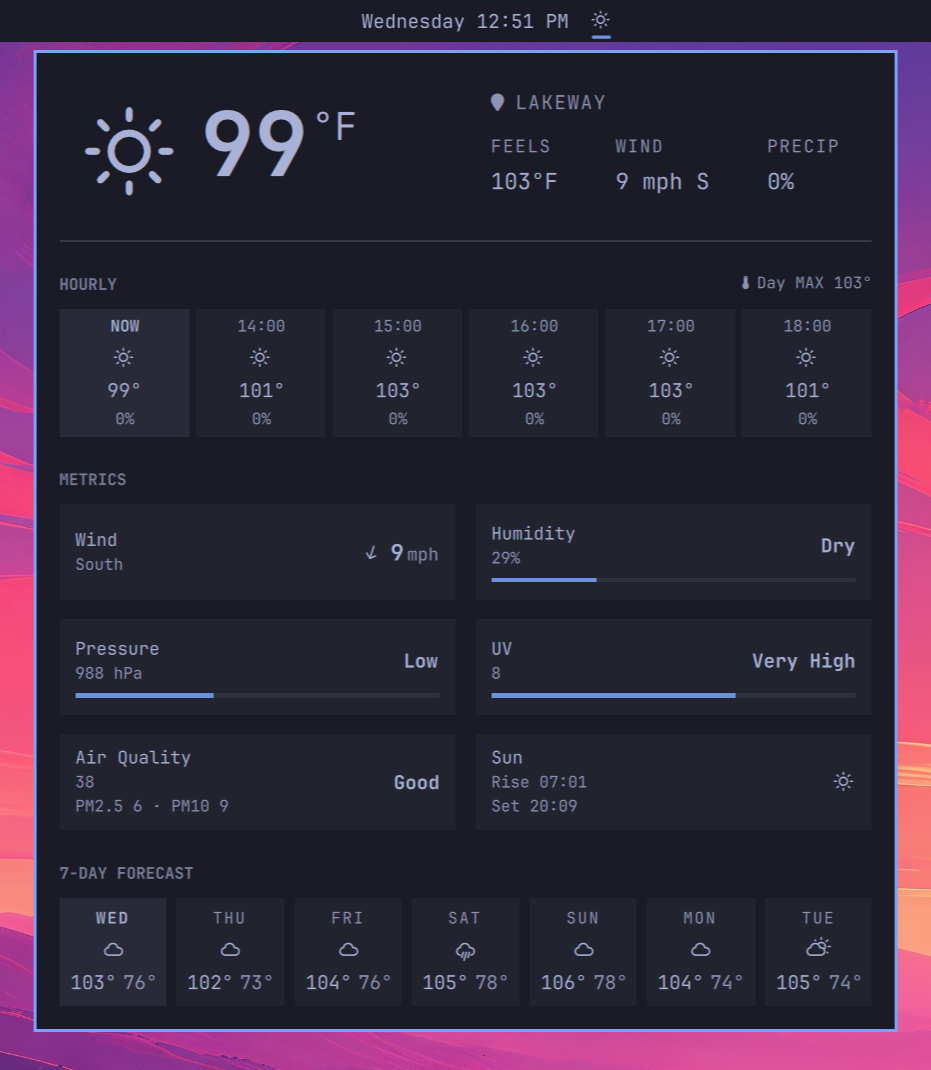
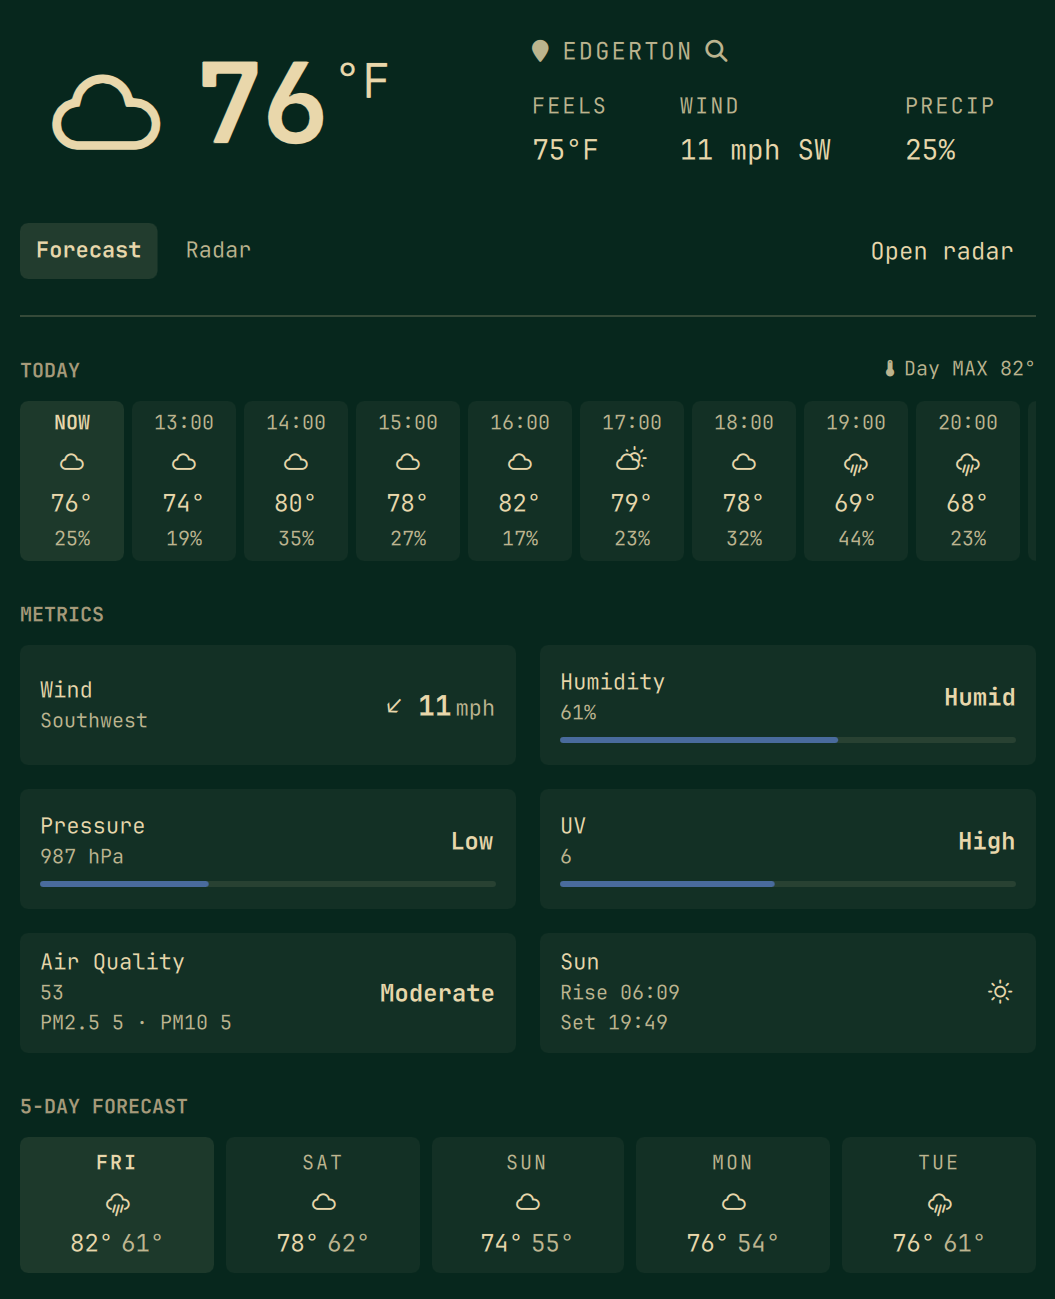
Harden process argv and document the plugin for listing.
Drop the shell-interpolated right-click notify, restrict RainViewer
hosts to https, and add a cropped preview of the forecast panel.

diff --git a/Panel.qml b/Panel.qml
@@ -360,8 +360,8 @@ Panel {
     }
     var lat = parseFloat(location.latitude)
     var lon = parseFloat(location.longitude)
-    if (!isFinite(lat) || !isFinite(lon)) return
-    peekLocation = { name: location.name, latitude: lat, longitude: lon }
+    if (!isFinite(lat) || !isFinite(lon) || Math.abs(lat) > 90 || Math.abs(lon) > 180) return
+    peekLocation = { name: String(location.name || ""), latitude: lat, longitude: lon }
     report = null
     dailyForecastReport = null
     airQualityReport = null
@@ -425,13 +425,22 @@ Panel {
   }
 
   function persistLocation(name, latitude, longitude) {
-    if (name && latitude !== null && longitude !== null)
-      locationSaveProc.command = ["omarchy-weather-location", "--set", name, latitude + "," + longitude]
-    else if (name)
-      locationSaveProc.command = ["omarchy-weather-location", "--set", name]
+    var safeName = String(name || "").replace(/^\s+|\s+$/g, "").replace(/^-+/, "")
+    var lat = parseFloat(latitude)
+    var lon = parseFloat(longitude)
+    if (safeName && isFinite(lat) && isFinite(lon) && Math.abs(lat) <= 90 && Math.abs(lon) <= 180)
+      locationSaveProc.command = ["omarchy-weather-location", "--set", safeName, lat + "," + lon]
+    else if (safeName)
+      locationSaveProc.command = ["omarchy-weather-location", "--set", safeName]
     else
       locationSaveProc.command = ["omarchy-weather-location", "--clear"]
     locationSaveProc.running = true
+  }
+
+  function notifyCurrent() {
+    if (statusNotifyProc.running) statusNotifyProc.running = false
+    statusNotifyProc.command = ["omarchy-weather-status"]
+    statusNotifyProc.running = true
   }
 
   // Debounced geocoding. Only one curl runs at a time; if the query moved on
@@ -486,8 +495,24 @@ Panel {
   }
 
   Process {
+    id: statusNotifyProc
+    stdout: StdioCollector {
+      waitForEnd: true
+      onStreamFinished: {
+        var msg = String(text || "").trim()
+        if (!msg || msg.charAt(0) === "-") return
+        Quickshell.execDetached(["omarchy-notification-send", "-u", "low", msg])
+      }
+    }
+  }
+
+  Process {
     id: forecastProc
-    command: ["curl", "-fsS", "--max-time", "10", "https://wttr.in/" + root.locationQuery + "?format=j1"]
+    command: {
+      var q = String(root.locationQuery || "")
+      if (q.indexOf("://") !== -1 || q.indexOf("/") !== -1) q = ""
+      return ["curl", "-fsS", "--max-time", "10", "https://wttr.in/" + q + "?format=j1"]
+    }
     stdout: StdioCollector {
       waitForEnd: true
       onStreamFinished: {

diff --git a/RadarModel.js b/RadarModel.js
@@ -84,8 +84,23 @@ function colorSchemeName(id) {
 
 // Standard XYZ tile, used by the pannable map.
 //   {host}{framePath}/{size}/{z}/{x}/{y}/{color}/{smooth}_{snow}.png
+function isRainViewerHttpsHost(host) {
+  var text = String(host || "")
+  if (text.indexOf("https://") !== 0) return false
+  var hostname = text.slice(8).split("/")[0].toLowerCase()
+  if (hostname.indexOf("@") !== -1 || hostname.indexOf(":") !== -1) return false
+  return hostname === "rainviewer.com" || hostname.slice(-15) === ".rainviewer.com"
+}
+
+function isSafeRadarPath(path) {
+  var text = String(path || "")
+  if (text.charAt(0) !== "/") return false
+  if (text.indexOf("://") !== -1 || text.indexOf("..") !== -1) return false
+  return true
+}
+
 function tileUrl(host, framePath, size, zoom, x, y, colorScheme, smooth, snow) {
-  if (!host || !framePath) return ""
+  if (!isRainViewerHttpsHost(host) || !isSafeRadarPath(framePath)) return ""
   return host + framePath + "/" + size + "/" + zoom + "/" + x + "/" + y
     + "/" + colorScheme + "/" + (smooth ? 1 : 0) + "_" + (snow ? 1 : 0) + ".png"
 }
@@ -95,7 +110,7 @@ function tileUrl(host, framePath, size, zoom, x, y, colorScheme, smooth, snow) {
 // case, and it is what the alert samples — the centre pixel is the user's
 // location by construction, so no grid arithmetic can drift.
 function centeredTileUrl(host, framePath, size, zoom, lat, lon, colorScheme, smooth, snow) {
-  if (!host || !framePath) return ""
+  if (!isRainViewerHttpsHost(host) || !isSafeRadarPath(framePath)) return ""
   // The API requires a decimal point in both coordinates.
   return host + framePath + "/" + size + "/" + zoom + "/" + decimal(lat) + "/" + decimal(lon)
     + "/" + colorScheme + "/" + (smooth ? 1 : 0) + "_" + (snow ? 1 : 0) + ".png"
@@ -105,7 +120,7 @@ function centeredTileUrl(host, framePath, size, zoom, lat, lon, colorScheme, smo
 // does not. Lets the plugin say "no radar covers you" instead of showing an
 // empty map that reads as a bug.
 function coverageTileUrl(host, size, zoom, lat, lon) {
-  if (!host) return ""
+  if (!isRainViewerHttpsHost(host)) return ""
   return host + "/v2/coverage/0/" + size + "/" + zoom + "/" + decimal(lat) + "/" + decimal(lon) + "/0/0_0.png"
 }
 
@@ -132,6 +147,7 @@ function parseManifest(raw) {
     return null
   }
   if (!data || typeof data.host !== "string" || !data.radar) return null
+  if (!isRainViewerHttpsHost(data.host)) return null
 
   var past = normalizeFrames(data.radar.past)
   if (past.length === 0) return null

diff --git a/BarWidget.qml b/BarWidget.qml
@@ -82,9 +82,9 @@ BarWidget {
     tooltipText: ""
 
     onPressed: function(b) {
-      if (!root.bar) return
-      if (b === Qt.RightButton) root.bar.run("omarchy-notification-send \"$(omarchy-weather-status)\"")
-      else if (b === Qt.MiddleButton) root.refresh()
+      if (b === Qt.RightButton) {
+        if (panelLoader.item && panelLoader.item.notifyCurrent) panelLoader.item.notifyCurrent()
+      } else if (b === Qt.MiddleButton) root.refresh()
       else root.togglePanel()
     }
   }

diff --git a/Service.qml b/Service.qml
@@ -617,6 +617,7 @@ Item {
     // window instead answers a question the reader did not ask: they have been
     // told it is going to rain, which is the whole point of telling them.
     // Anyone who wants the map opens it themselves.
+    if (headline.charAt(0) === "-" || description.charAt(0) === "-") return
     notifyProc.command = command.concat([headline, description])
     notifyProc.running = true
   }

diff --git a/README.md b/README.md
@@ -1,64 +1,149 @@
 # Weather
 
-A weather widget for the [Omarchy](https://omarchy.org) bar. It **replaces**
-the built-in `omarchy.weather` pill with a panel that has:
+A single Omarchy bar pill that **replaces** the built-in `omarchy.weather`
+widget. Click it for today's hourly forecast, a five-day outlook, and a live
+radar map. **Open radar** launches today's radar in your default browser.
 
-- current conditions
-- remaining hours for **today**
-- a **five-day** forecast
-- a live **radar** map (RainViewer)
-- **Open radar**, which launches today's radar in your default browser
+No API key. Location is the same file Omarchy already uses.
 
-Forecast data comes from [Open-Meteo](https://open-meteo.com) and
-[wttr.in](https://wttr.in). Radar tiles come from
-[RainViewer](https://www.rainviewer.com). No API key.
+<p align="center"><img src="preview.png" alt="Weather panel" width="520"></p>
 
-This plugin combines MIT-licensed work from
-[Weathering](https://github.com/howdyitskyle/weathering-omarchy-plugin) and
-[Weather Radar](https://github.com/eduardodallecort/omarchy-weather-radar).
-See [NOTICE.md](NOTICE.md).
+## Why this exists
+
+Omarchy's stock weather pill shows current conditions and a short outlook.
+[Weathering](https://github.com/howdyitskyle/weathering-omarchy-plugin) is a
+richer forecast panel. [Weather Radar](https://github.com/eduardodallecort/omarchy-weather-radar)
+is a separate radar pill.
+
+This plugin is those two ideas in **one slot**: the stock header goes away,
+forecast and radar share a panel, and you can peek at another city without
+changing home. If you already run Weathering *and* Weather Radar side by
+side, you do not need this. If you want one widget that stands in for
+`omarchy.weather`, this is that.
+
+It is MIT-licensed work adapted from Weathering and Weather Radar plus the
+stock weather contract. See [NOTICE.md](NOTICE.md).
+
+## Features
+
+### Bar pill
+
+Replaces the built-in weather icon in the centre of the bar (`clonedFrom:
+omarchy.weather`). The pill shows the current condition glyph for your
+**saved home** location, even while the panel is peeking at another city.
+
+| Input | Action |
+|-------|--------|
+| Left-click | Open or close the panel |
+| Middle-click | Refresh the forecast |
+| Right-click | Notification with current conditions (`omarchy-weather-status`) |
+| Escape (panel open) | Close |
+
+### Forecast tab
+
+Current temperature and condition, feels-like, wind, and precipitation
+chance. Below that:
+
+- **Today** — remaining hours of the current local day (not a fixed six-cell
+  strip). Scroll sideways if the day is long. The first cell is **NOW**.
+- **Metrics** — wind (speed and direction), humidity, pressure, UV, air
+  quality (US AQI, PM2.5 / PM10), sunrise and sunset. Each block can be
+  hidden in settings.
+- **Five-day** — today plus the next four days, high / low and condition.
+
+Units follow `auto` (locale and country), `metric`, or `imperial`.
+
+### Radar tab
+
+Live precipitation from [RainViewer](https://www.rainviewer.com) over a
+CARTO / OpenStreetMap basemap, centred on the city you are viewing (home or
+peek).
+
+- Drag to pan, wheel to zoom, Home to recetre
+- Play / scrub the last two hours of frames
+- The current overlay stays on screen until the next timestamp's tiles have
+  loaded, then the two crossfade (no empty black flash)
+- Radar tiles are fetched only while this tab is open
+
+This is **precipitation**, not cloud. An overcast dry sky is an empty map.
+
+### Open radar
+
+On both tabs, **Open radar** opens RainViewer in your default browser
+(`omarchy-launch-browser`), centred on the same coordinates. The URL is
+always `https://www.rainviewer.com/map.html…`.
+
+### Home location
+
+Shared with stock Omarchy weather:
+`~/.local/state/omarchy/settings/weather.json`, via
+`omarchy-weather-location`. Click the **pin / city name** to search and
+**save** a new home. An empty commit returns to IP auto-detect. Changing
+home here also moves any other widget that reads that file.
+
+### Peek
+
+The **search** icon next to the city name looks up another place **without
+saving it**.
+
+- Pick a geocoded suggestion (a typed name alone is not enough)
+- Forecast, radar, and **Open radar** follow the peeked city
+- The bar pill stays on home
+- Storm alerts stay on home
+- **Back to \<home\>** returns; closing the panel does the same
+
+Use peek for “what’s the weather in Madison.” Use the pin to actually move
+home.
+
+### Storm alerts (off by default)
+
+Optional. When on, a background check looks at the forecast around **home**
+(not a peek) and notifies if rain or a storm is expected inside the alert
+radius. Toggle from the radar tab or widget settings. Not a life-safety
+tool — use your national weather service for decisions that matter.
 
 ## Install
 
 ```sh
 omarchy plugin add https://github.com/calebhat/omarchy-weather.git --enable
+omarchy restart shell
 ```
 
-Enabling it takes the built-in weather slot (`clonedFrom: omarchy.weather`).
-If the stock pill is still visible:
+`--enable` takes the built-in weather slot. If the stock pill is still
+visible:
 
 ```sh
 omarchy plugin disable omarchy.weather
 omarchy bar move io.github.calebhat.weather --section center
-```
-
-Then restart the shell so the radar service mounts:
-
-```sh
 omarchy restart shell
 ```
 
-## Use
+Do not enable this together with Weathering or Weather Radar in the same
+bar slot unless you want two weather pills. Disable those if you are
+switching.
 
-Click the pill to open or close the panel. **Forecast** shows today and the
-five-day outlook. **Radar** shows the last two hours of precipitation over
-your location.
+## Configure
 
-**Open radar** (on both tabs) opens RainViewer in your default browser,
-centred on the same coordinates.
+Settings live on the widget’s entry in `~/.config/omarchy/shell.json` (or
+the bar settings form). `shell.json` hot-reloads on save.
 
-Middle-click the pill to refresh the forecast. Right-click sends a
-notification of current conditions. Escape closes the panel.
-
-Location is shared with Omarchy's weather file
-(`~/.local/state/omarchy/settings/weather.json`). Click the location label
-to change home; an empty commit returns to IP auto-detect. The search icon
-peeks at another city without saving it — forecast and radar follow the
-peek, the bar pill stays on home, and **Back to …** (or closing the panel)
-returns. Storm alerts always use the saved home.
-
-Optional storm alerts default **off**. Turn them on from the radar tab or
-the widget settings.
+| Key | Default | Meaning |
+|-----|---------|---------|
+| `unit` | `auto` | `auto` / `metric` / `imperial` |
+| `refreshMinutes` | `15` | Forecast refresh, 5–120 |
+| `showHourly` | `true` | Remaining hours for today |
+| `showForecast` | `true` | Five-day strip |
+| `showMetrics` | `true` | Wind / humidity / pressure / UV grid |
+| `showSun` | `true` | Sunrise / sunset cell |
+| `showAirQuality` | `true` | US AQI cell |
+| `showFeelsLike` | `true` | Feels-like in the header |
+| `alertsEnabled` | `false` | Storm alerts for home |
+| `alertRadiusKm` | `100` | How far ahead to watch |
+| `alertMinIntensity` | `Heavy` | `Light` / `Moderate` / `Heavy` / `Severe` |
+| `colorScheme` | `TITAN` | RainViewer palette |
+| `defaultZoom` | `7` | Map open zoom (radar data stops at 7; the basemap can go further) |
+| `smoothTiles` | `true` | Blend radar pixels |
+| `showSnow` | `true` | Colour snow separately from rain |
 
 ## Remove
 
@@ -66,25 +151,34 @@ the widget settings.
 omarchy plugin remove io.github.calebhat.weather
 ```
 
-Removal restores the built-in weather widget. It does not delete
-`weather.json`.
+The built-in weather widget comes back. `weather.json` is left alone.
 
 ## Data
 
-- Open-Meteo — current, hourly, daily, air quality, geocoding
-- wttr.in — IP auto-detect when no location is stored
-- RainViewer — radar frames (fetched only while the radar tab is open,
-  except optional alerts)
-- CARTO / OpenStreetMap — basemap tiles
+| Source | Used for |
+|--------|----------|
+| Open-Meteo | Current, hourly, daily, air quality, city search |
+| wttr.in | IP auto-detect when no home coordinates are stored |
+| RainViewer | Radar frames (while the radar tab is open; alerts use the forecast) |
+| CARTO / OpenStreetMap | Basemap |
 
 ## Security
 
-Plugins run unsandboxed inside `omarchy-shell`. This one talks to the HTTPS
-endpoints above, writes location through `omarchy-weather-location`, and
-opens URLs only as `https://www.rainviewer.com/map.html…` via
-`omarchy-launch-browser`. Process invocations use argv arrays, not a shell
-string.
+Plugins run unsandboxed inside `omarchy-shell`. This one:
+
+- Fetches the HTTPS endpoints above
+- Writes home location only through `omarchy-weather-location` (argv, no
+  shell). Peek never writes that file
+- Opens the browser only with `omarchy-launch-browser` and an
+  `https://www.rainviewer.com/map.html` URL built from numeric coordinates
+- Invokes every process as an argv array (`curl`, `omarchy-weather-status`,
+  `omarchy-notification-send`, `omarchy-weather-location`). No `bash -c`,
+  no `$(…)`, no pipe-to-shell
+- Accepts RainViewer tile hosts only over `https://*.rainviewer.com`
+
+Right-click on the pill runs `omarchy-weather-status`, then
+`omarchy-notification-send` with that output as an argument.
 
 ## License
 
-MIT — see [LICENSE](LICENSE) and [NOTICE.md](NOTICE.md).
+MIT — [LICENSE](LICENSE) and [NOTICE.md](NOTICE.md).

diff --git a/CONTRIBUTING.md b/CONTRIBUTING.md
@@ -15,5 +15,9 @@ location in `~/.local/state/omarchy/settings/weather.json` via
 
 Browser radar must stay an argv call to `omarchy-launch-browser` with an
 `https://www.rainviewer.com/map.html` URL built from numeric coordinates.
+Do not restore `bar.run` with `$(…)` for notifications.
 
 Commit as `calebhat <97716470+calebhat@users.noreply.github.com>`.
+
+Marketplace listing: open or **edit** the existing `[Plugin]: Weather`
+issue on HANCORE-linux/omarchy-plugin-marketplace. Do not open a duplicate.
